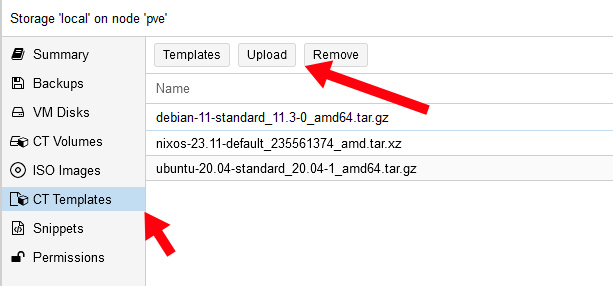
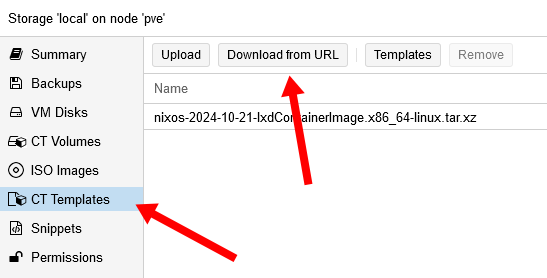
work in progress

Changed region(s): [[0.0, 0.0, 1.0, 1.0]]

diff --git a/layouts/notes/single.html b/layouts/notes/single.html
@@ -15,6 +15,10 @@
               datetime="{{ .Date.Format "2006-01-02T15:04:05Z07:00" }}"
             >
               {{ .Date.Format (.Site.Params.dateFormat | default "January 2, 2006" ) }}
+              {{ if .Lastmod }}
+                •&nbsp;Updated
+                {{ .Lastmod.Format (.Site.Params.dateFormat | default "January 2, 2006" ) }}
+              {{ end }}
             </time>
           </span>
           <span class="reading-time">

diff --git a/content/notes/nixos-proxmox/index.md b/content/notes/nixos-proxmox/index.md
@@ -30,14 +30,6 @@ From the build result page, click the link labeled `nixos-system-x86_64-linux.ta
 
 {{<img src="build-result.webp" alt="Screenshot of metadata page for a NixOS build from 2023-09-21" has-border="true" max-width="700px">}}
 
-## Rename the NixOS container image (optional)
-
-The NixOS container image download doesn't include any version or date information. For organization, I renamed my image file to:
-
-- `nixos-2024-10-21-lxdContainerImage.x86_64-linux.tar.xz`
-
-Renaming will help you identify which version of NixOS this is when you see it later in Proxmox, though this step is optional.
-
 ## Upload the image to Proxmox
 
 Now, it's time to upload the image to Proxmox. Scroll down to one of your Proxmox storage nodes.
@@ -46,17 +38,27 @@ Click the storage node you'd like to use. The default is called `local`, but you
 
 {{<img src="click-local.webp" alt="Screenshot of local storage node menu item in the Server View of Proxmox" has-border="true">}}
 
-From the storage node, click "CT Templates," and then click "Upload."
+From the storage node, click "CT Templates," and then click "Download from URL."
 
 {{<img src="ct-templates.webp" alt="Screenshot of settings pages for storage node, showing the CT Templates tab is selected and an arrow pointing to the Upload button" has-border="true">}}
 
-In the upload dialog, click "Select File..." and select the NixOS container image you downloaded [above](#download-the-nixos-container-image), and click "Upload."
+The NixOS container image download doesn't include any version or date information. For organization, I renamed my image file to:
 
-{{<img src="upload-template.webp" alt="Screenshot of template upload dialog with content set to 'Container template'" has-border="true">}}
+- `nixos-2024-10-21-lxdContainerImage.x86_64-linux.tar.xz`
+
+Renaming will help you identify which version of NixOS this is when you see it later in Proxmox, though this step is optional.
+
+{{<img src="download-from-url.webp" alt="Screenshot of download settings showing the build URL at the top and the custom filename in the middle field" has-border="true">}}
+
+Click "Download" to download the template to Proxmox.
 
 ## Create a NixOS container
 
-For the next step, you need to SSH to your Proxmox system and switch to the `root` user context:
+{{<notice type="warning">}}
+**Warning**: Creating a container through the Proxmox web UI does not work with this template. You need to perform this step through the Proxmox terminal.
+{{</notice>}}
+
+For the next step, SSH to your Proxmox system and switch to the `root` user context:
 
 ```bash
 ssh root@pve
@@ -101,13 +103,15 @@ pct create "$(pvesh get /cluster/nextid)" \
 
 ## Log in to NixOS
 
-Your NixOS container is now configured!
+Your NixOS container is now configured and should be running.
 
-You can start your container normally. At the Console, you should see a standard NixOS prompt:
+Confusingly, if you visit the Console tab for your new container, you'll see only a black screen:
+
+{{<img src="black-screen.webp" alt="Screenshot of a black screen in the Proxmox container on the Console tab" has-border="true">}}
+
+If you hit "Enter," you should see the standard NixOS prompt. You can log in with username `root` and no password.
 
 {{<img src="nixos-prompt.webp" alt="Screenshot of nixos default login prompt in a Proxmox container on the Console tab" has-border="true">}}
-
-As the prompt says, you can log in with username `root` and no password.
 
 ## Configure NixOS system
 
